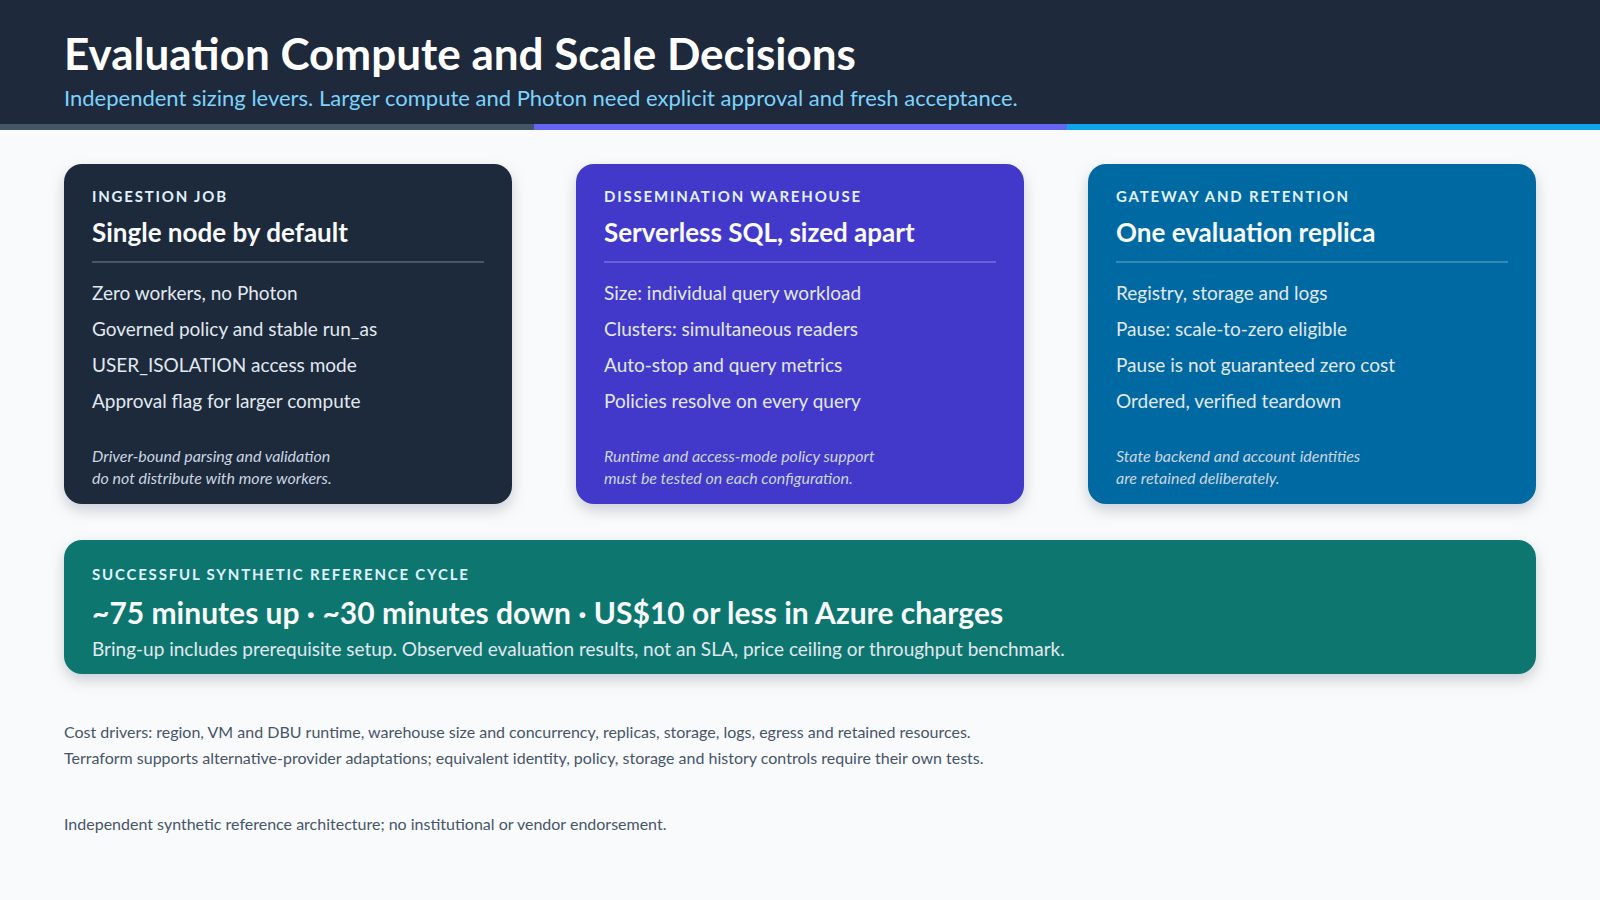
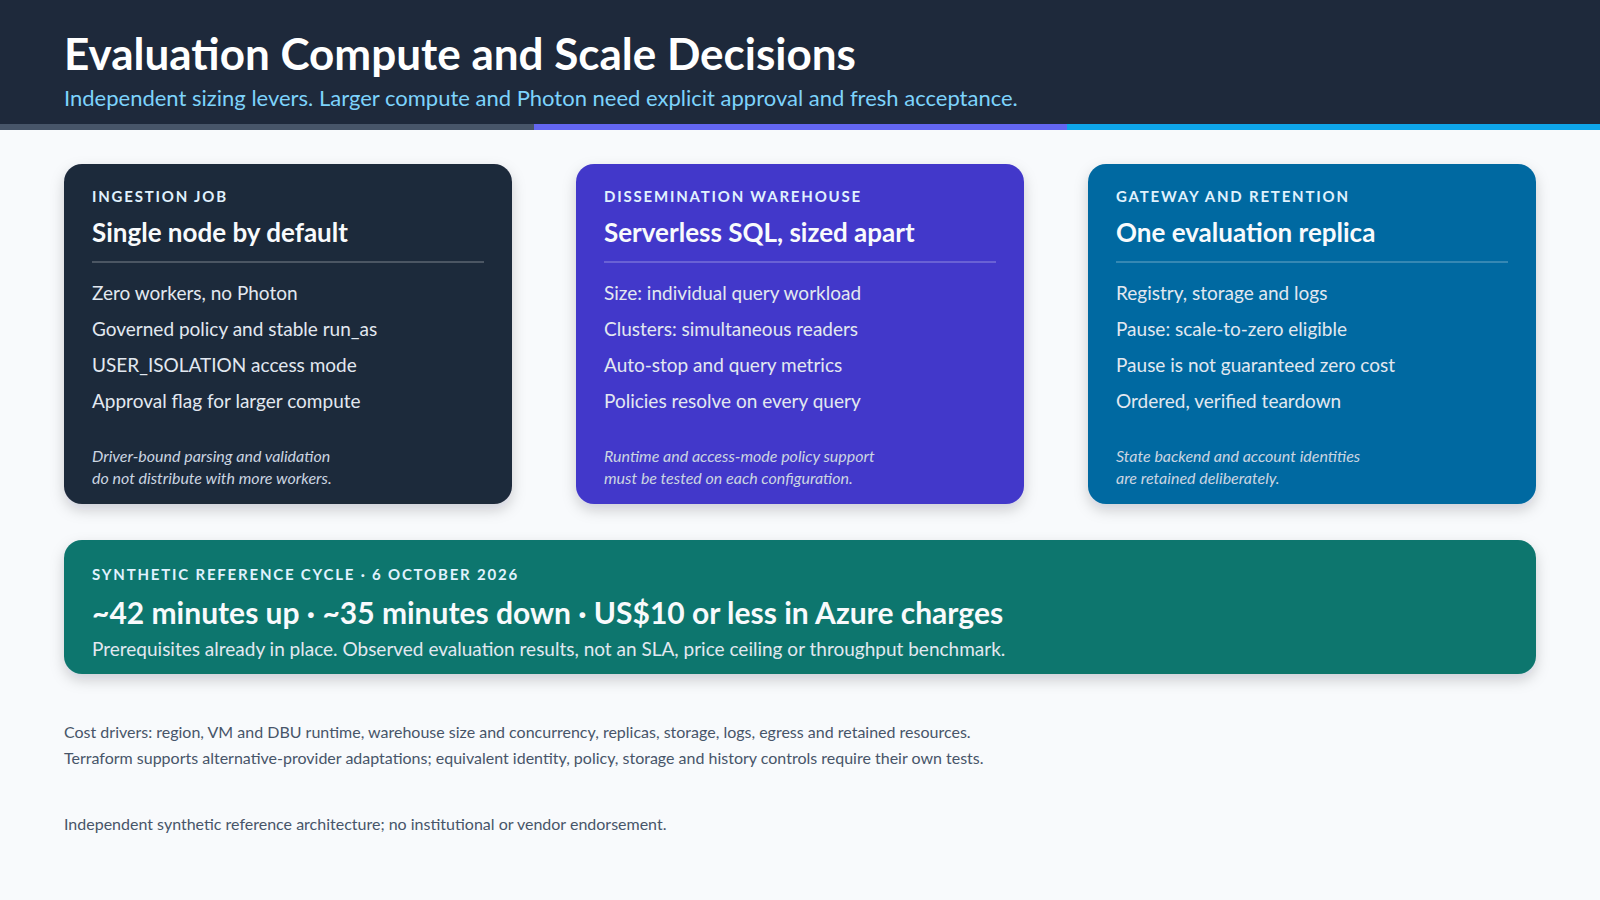
Publish the 6 October cycle as the current reference timing
The most recent greenfield cycle, run from Ubuntu Linux with PowerShell 7 and the prerequisites already in place, took about 42 minutes up and 35 minutes down for US$10 or less. Publications, guides, the reference index, demo narration, the LinkedIn draft and the compute figure now state it. The evidence register keeps the 18 September Windows cycle (75 minutes including prerequisites, 30 down) as history, and the dated records name that date. Only compute_strategy.png was re-rendered.

Intent: 2026-10-06-reference-timings
Assisted-by: GitHub Copilot (Claude Opus 5.5)

Changed region(s): [[0.0625, 0.6222, 0.6562, 0.7467]]

diff --git a/tests/test_documentation_contract.py b/tests/test_documentation_contract.py
@@ -125,7 +125,7 @@ def test_primary_publications_preserve_enterprise_scope(relative_path):
     assert all(platform in prose for platform in ("AWS", "GCP", "Microsoft Fabric", "open-source"))
     assert "reconstruct" in prose.lower()
     assert re.search(r"restrict|remov", prose, re.IGNORECASE)
-    assert all(measure in prose for measure in ("75 minutes", "30 minutes", "US$10"))
+    assert all(measure in prose for measure in ("42 minutes", "35 minutes", "US$10"))
     assert "prerequisite" in prose
 
 

diff --git a/docs/whitepaper/Bridging_Public_Dissemination_and_Protected_Data.md b/docs/whitepaper/Bridging_Public_Dissemination_and_Protected_Data.md
@@ -7,7 +7,7 @@
 **Affiliation:** Independent Reference Architecture  
 **Classification:** Public Reference Architecture  
 **Standards:** SDMx 3.0 | BIS Locational Banking Statistics (LBS) | Azure Databricks Unity Catalog  
-**Implementation status:** Synthetic provisioning, live control tests and workload teardown completed on Azure. The reference evaluation measured approximately 75 minutes to provision including prerequisites, 30 minutes to tear down, and US$10 or less in Azure charges for the deploy/test/teardown cycle. These are evaluation results, not production service levels; see [measurement scope](../RELEASE_EVIDENCE.md#reference-evaluation-metrics).
+**Implementation status:** Synthetic provisioning, live control tests and workload teardown completed on Azure. The most recent reference evaluation (6 October 2026) measured approximately 42 minutes to provision with prerequisites already in place, 35 minutes to tear down, and US$10 or less in Azure charges for the deploy/test/teardown cycle. These are evaluation results, not production service levels; see [measurement scope](../RELEASE_EVIDENCE.md#reference-evaluation-metrics).
 
 > **Independent Reference Architecture Notice:**  
 > This publication and associated reference implementations were developed in a personal capacity using synthetic data fixtures and publicly available international statistical standards (SDMx 3.0, BIS Locational Banking Statistics). They are shared for educational purposes and reflect only the author's views. This work is not affiliated with, sponsored by, or representative of the Bank of Canada, the Federal Reserve System, the Bank for International Settlements, or any official statistical institution.
@@ -304,7 +304,7 @@ An institution does not need to share internal records to start development:
 
 After the one-time remote-state backend and local configuration are prepared, `sh/sovereignshield_up.ps1` executes the validated sequence from Terraform foundation through Databricks account wiring, Asset Bundle deployment, ingestion, grants, both portal hosts, and readiness checks. Stages can be bounded or resumed after a cloud timeout. `sh/sovereignshield_down.ps1` deletes tables and policy functions before the schemas that contain them, destroys bundle and Azure resources through their owning paths, removes orphaned diagnostics, and verifies both empty Terraform state and an empty workload resource group. The backend and account-level identity records are deliberately retained for reliable reconstruction.
 
-The successful reference evaluation took approximately **75 minutes to bring up the project, including prerequisite setup**, and **30 minutes for teardown**. The complete deploy, test and teardown cycle incurred **US$10 or less in Azure charges**. This supports a low-cost, bounded synthetic evaluation; it is not a guaranteed ceiling for other regions, subscriptions, durations or workloads. Retained backend resources remain separately governed. The [evaluation evidence](../RELEASE_EVIDENCE.md#reference-evaluation-metrics) defines measurement provenance and accounting limits.
+The most recent successful reference evaluation (6 October 2026) took approximately **42 minutes to bring up the project, with prerequisite setup already in place**, and **35 minutes for teardown**. The complete deploy, test and teardown cycle incurred **US$10 or less in Azure charges**. This supports a low-cost, bounded synthetic evaluation; it is not a guaranteed ceiling for other regions, subscriptions, durations or workloads. Retained backend resources remain separately governed. The [evaluation evidence](../RELEASE_EVIDENCE.md#reference-evaluation-metrics) defines measurement provenance and accounting limits.
 
 The reason each Azure and Databricks object exists, who creates it, and whether it is reused or deleted is documented in the [Systems Architect Resource Provenance Guide](../RESOURCE_PROVENANCE.md). The command sequence and recovery controls are in the [One-Command Operations Runbook](../AUTOMATION_RUNBOOK.md).
 

diff --git a/docs/RELEASE_EVIDENCE.md b/docs/RELEASE_EVIDENCE.md
@@ -11,14 +11,20 @@ those evaluations, not the current availability of a continuously operated servi
 
 | Measure | Observed Reference Result | Boundary |
 | --- | --- | --- |
-| Full project bring-up using `sh/sovereignshield_up.ps1` | Approximately 75 minutes, including prerequisite setup | Synthetic evaluation, not a production provisioning SLA |
-| Workload teardown using `sh/sovereignshield_down.ps1` | Approximately 30 minutes | Separate from the 75-minute bring-up; retained backend/identity artifacts follow the runbook |
-| Azure charges for deployment, testing and teardown | US$10 or less | Measured reference cycle, not a price guarantee or recurring production estimate |
-| Lifecycle completion | Both scripts completed without errors in the confirmed evaluation | Institutional production acceptance remains a separate gate |
+| Full project bring-up using `sh/sovereignshield_up.ps1` | Approximately 42 minutes for all eight stages, including the offline test suite, with prerequisites already in place (6 October 2026). Earlier: approximately 75 minutes including prerequisite setup (18 September 2026) | Synthetic evaluation, not a production provisioning SLA |
+| Workload teardown using `sh/sovereignshield_down.ps1` | Approximately 35 minutes (6 October 2026). Earlier: approximately 30 minutes (18 September 2026) | Separate from bring-up; retained backend/identity artifacts follow the runbook |
+| Azure charges for deployment, testing and teardown | US$10 or less in each cycle | Measured reference cycle, not a price guarantee or recurring production estimate |
+| Lifecycle completion | Both scripts completed without errors in both cycles | Institutional production acceptance remains a separate gate |
 
-**Measurement provenance:** project-operator evaluation confirmed on 18 September
-2026. The supplied timing includes prerequisites. A line-item billing export,
-credit/tax treatment and allocation of persistent shared resources were not supplied.
+**Measurement provenance:** the current reference cycle was run by the project
+operator on 6 October 2026 from Ubuntu Linux with PowerShell 7.6. The state
+backend, Entra persona users and Databricks account identities already existed,
+so its bring-up time excludes prerequisite setup. Since the earlier cycle, teardown
+also waits until Azure confirms that the Container Apps environment and the
+workspace are deleted, rather than trusting the CLI's own polling. The earlier cycle,
+confirmed on 18 September 2026 from Windows, included prerequisite setup. Both
+timings and costs are operator-reported. A line-item billing export, credit/tax
+treatment and allocation of persistent shared resources were not supplied.
 The recorded US-dollar cycle cost supports low-cost synthetic evaluation; it does
 not establish an independently audited billing total or a ceiling for other runs.
 Region, capacity, runtime, warehouse activity, storage, logs, egress, retained

diff --git a/README.md b/README.md
@@ -159,9 +159,10 @@ submitted filing can be rejected while an earlier accepted version stays publish
 | Empty subscription (PowerShell on Windows, or `pwsh` on Linux) | `sh/sovereignshield_up.ps1` / `sh/sovereignshield_down.ps1` | [Operations runbook](docs/AUTOMATION_RUNBOOK.md) |
 | Existing Azure and Databricks estate (bash) | `scripts/sovereign_up_custom.sh` / `scripts/sovereign_down_custom.sh` | [Bring your own estate](docs/AUTOMATION_RUNBOOK.md#bring-your-own-azure-estate) |
 
-The greenfield reference cycle took about **75 minutes** to bring up, including prerequisite
-setup, **30 minutes** to tear down and **US$10** or less in Azure charges. These are observed
-synthetic results, not an SLA or price ceiling ([measurement scope](docs/RELEASE_EVIDENCE.md#reference-evaluation-metrics)).
+The most recent greenfield reference cycle (6 October 2026) took about **42 minutes** to
+bring up, with prerequisites already in place, **35 minutes** to tear down and **US$10** or
+less in Azure charges. These are observed synthetic results, not an SLA or price ceiling
+([measurement scope](docs/RELEASE_EVIDENCE.md#reference-evaluation-metrics)).
 The custom scripts attach to existing resources, create only the missing delta, tag what
 they create and record it in `.sovereign_provisioned_manifest.json`, so teardown removes
 nothing it did not create.

diff --git a/docs/LINKEDIN_POST.md b/docs/LINKEDIN_POST.md
@@ -81,7 +81,7 @@ Beyond statistics
 The same question now faces AI assistants grounded in enterprise knowledge: retrieval should return only the evidence the person asking is entitled to see. Binding that rule to the data, letting signed-in channels query with the caller's own identity and giving anonymous traffic a least-privileged public identity, never one shared privileged account, keeps the decision in one governed place. Sovereign Shield does not include an assistant, but its gateway faces the same identity question.
 
 Evidence
-A complete Azure deployment came up in about 75 minutes and tore down in 30, for under US$10 in Azure charges. Those are synthetic evaluation numbers, not production estimates. The code, white paper and an open reconstruction challenge are here: https://github.com/botlhale/sovereign-shield
+A complete Azure deployment came up in about 42 minutes and tore down in 35, for under US$10 in Azure charges. Those are synthetic evaluation numbers, not production estimates. The code, white paper and an open reconstruction challenge are here: https://github.com/botlhale/sovereign-shield
 
 Independent, educational work on synthetic data and public standards, written in a personal capacity. It is not the work of the Bank of Canada or any other institution, and the views are my own.
 

diff --git a/docs/EXECUTIVE_BRIEF.md b/docs/EXECUTIVE_BRIEF.md
@@ -96,7 +96,7 @@ Start with one bounded workload and widen the scope only as evidence accumulates
 
 **Assurance:** Rehearse protected migration, test the live persona matrix, recovery and offboarding, validate disclosure control, and obtain legal/provenance clearance.
 
-**Reference evaluation:** successful provisioning took approximately **75 minutes including prerequisites**; teardown took **30 minutes**. The deploy/test/teardown cycle cost **US$10 or less in Azure charges**. This is an observed synthetic-workload result, not a production estimate or guaranteed price. [Measurement scope](RELEASE_EVIDENCE.md#reference-evaluation-metrics).
+**Reference evaluation:** provisioning took approximately **42 minutes with prerequisites in place**; teardown took **35 minutes**. The deploy/test/teardown cycle cost **US$10 or less in Azure charges**. This is an observed synthetic-workload result, not a production estimate or guaranteed price. [Measurement scope](RELEASE_EVIDENCE.md#reference-evaluation-metrics).
 
 **Technology options:** Terraform module/provider boundaries support AWS, GCP, Microsoft Fabric and open-source alternatives. Identity, policy enforcement, storage and lifecycle adapters must be implemented and acceptance-tested; the Azure/Databricks code is not portable unchanged.
 

diff --git a/docs/LIVE_DEPLOYMENT_2026_09_15.md b/docs/LIVE_DEPLOYMENT_2026_09_15.md
@@ -135,10 +135,11 @@ not be verified and is not reported as below $50; billing also lags resource use
 The workload is now removed, but the retained state backend can incur storage
 costs. No hard real-time billing cap or zero-total-cost claim is made.
 
-The later confirmed reference evaluation measured about 75 minutes up including
-prerequisites, 30 minutes down and US$10 or less in Azure charges for the full
-cycle. Its [measurement scope](RELEASE_EVIDENCE.md#reference-evaluation-metrics)
-is separate from this earlier billing-API limitation. Historical figures are not
+The later reference evaluation confirmed on 18 September 2026 measured about
+75 minutes up including prerequisites, 30 minutes down and US$10 or less in Azure
+charges for the full cycle. Its scope, and that of later cycles, is recorded under
+[reference evaluation metrics](RELEASE_EVIDENCE.md#reference-evaluation-metrics),
+separate from this earlier billing-API limitation. Historical figures are not
 retroactively changed. Public-total and researcher-row inference remain the
 [open disclosure challenge](../SECURITY.md#statistical-reconstruction-challenge).
 

diff --git a/docs/LIVE_DEPLOYMENT_2026_09_18.md b/docs/LIVE_DEPLOYMENT_2026_09_18.md
@@ -70,10 +70,12 @@ was needed for this recovery.
   not claimed as tested here.
 
 No teardown or push was part of the recovery task itself. Subsequent successful
-script-driven provisioning and teardown were confirmed in the reference evaluation:
-approximately 75 minutes up including prerequisites, 30 minutes down, and US$10 or
-less in Azure charges for deploy/test/teardown. See [measurement scope](RELEASE_EVIDENCE.md#reference-evaluation-metrics);
-those values are not the 10.8-minute partial recovery above or a production guarantee.
+script-driven provisioning and teardown were confirmed in the reference evaluation
+of 18 September 2026: approximately 75 minutes up including prerequisites, 30 minutes
+down, and US$10 or less in Azure charges for deploy/test/teardown. See
+[measurement scope](RELEASE_EVIDENCE.md#reference-evaluation-metrics) for that and
+later cycles; those values are not the 10.8-minute partial recovery above or a
+production guarantee.
 
 SDMx files are the modeled international input. Synthetic bank micro-transactions
 remain educational calculation artifacts, not a system deliverable. The Analyst

diff --git a/docs/RESOURCE_PROVENANCE.md b/docs/RESOURCE_PROVENANCE.md
@@ -163,11 +163,12 @@ driven by replica uptime, CPU/memory allocation, requests, registry/storage, and
 logs. Pause mode sets minimum replicas to zero; workload teardown deletes the
 app, environment, matching registry, and token store.
 
-Successful reference provisioning took approximately **75 minutes including
-prerequisites**, followed by **30 minutes for teardown**. The complete deploy,
-test and teardown cycle cost **US$10 or less in Azure charges**. This is a measured
-synthetic evaluation, not a recurring production estimate or zero-cost retention
-claim. See [measurement scope](RELEASE_EVIDENCE.md#reference-evaluation-metrics).
+The most recent successful reference provisioning (6 October 2026) took
+approximately **42 minutes with prerequisites already in place**, followed by
+**35 minutes for teardown**. The complete deploy, test and teardown cycle cost
+**US$10 or less in Azure charges**. This is a measured synthetic evaluation, not a
+recurring production estimate or zero-cost retention claim. See
+[measurement scope](RELEASE_EVIDENCE.md#reference-evaluation-metrics).
 
 ## Remote State Resource Group
 

diff --git a/intent/2026-10-06-reference-timings/plan.md b/intent/2026-10-06-reference-timings/plan.md
@@ -60,4 +60,20 @@ No operational state changes.
 
 ## Evidence
 
-Recorded when the status becomes verified.
+Verified on 6 October 2026, before the implementing commit.
+
+- The contract test was changed first and failed for all three publications.
+  After the edits, `tests/test_documentation_contract.py` passed 16 of 16.
+- `sh/verify_docs.py` verified 388 local links and anchors. `--print-proof`
+  produced an eight-page Executive Brief and a 20-page white paper, with each
+  figure on a page that has an image.
+- `git grep` for the old wording finds only the dated records, the
+  evidence-register history and these intent records.
+- `git diff --stat docs/figures` lists only `compute_strategy.svg`,
+  `compute_strategy.png` and `manifest.json`.
+  - Text extents were measured in the same headless Chrome: the widest panel line
+    ends at x=1005 of 1536.
+  - The render used Lato, the third font in the SVG stack, because Inter and
+    Segoe UI are not installed on this Linux machine. The other five figures keep
+    their earlier Segoe UI renders.
+- Full offline suite: 275 passed, 13 skipped.

diff --git a/.github/skills/SKILLS.md b/.github/skills/SKILLS.md
@@ -64,9 +64,10 @@ Databricks are the demonstrated implementation. Terraform provider/module
 boundaries support AWS, GCP, Microsoft Fabric and open-source adaptations.
 Identity, storage, policy, history and hosting adapters require equivalent tests.
 
-The successful synthetic reference cycle measured approximately **75 minutes up
-including prerequisites**, **30 minutes down**, and **US$10 or less in Azure charges
-for deploy/test/teardown**. Use [the measurement scope](../../docs/RELEASE_EVIDENCE.md#reference-evaluation-metrics),
+The most recent successful synthetic reference cycle (6 October 2026) measured
+approximately **42 minutes up with prerequisites already in place**, **35 minutes
+down**, and **US$10 or less in Azure charges for deploy/test/teardown**. Use
+[the measurement scope](../../docs/RELEASE_EVIDENCE.md#reference-evaluation-metrics),
 not these values as production cost or duration guarantees.
 
 The [engagement playbook](../../docs/ENTERPRISE_ONBOARDING_PLAYBOOK.md) is authoritative

diff --git a/docs/AUTOMATION_RUNBOOK.md b/docs/AUTOMATION_RUNBOOK.md
@@ -85,9 +85,10 @@ The default run executes:
 | 7 | Build and deploy Container Apps with anonymous and Entra access |
 | 8 | Check App status, persona SQL entitlements, 13-row public fixture and Easy Auth; optionally configure GitHub |
 
-The successful reference evaluation measured approximately **75 minutes to bring
-up the entire project, including prerequisite setup**, and **30 minutes for
-teardown**. Deployment, testing and teardown incurred **US$10 or less in Azure
+The most recent successful reference cycle (6 October 2026, Ubuntu Linux with
+PowerShell 7) measured approximately **42 minutes to bring up the entire project,
+with prerequisite setup already in place**, and **35 minutes for teardown**.
+Deployment, testing and teardown incurred **US$10 or less in Azure
 charges**. These are observed synthetic-workload results, not stage SLAs or a
 guaranteed cost ceiling. Regional capacity, RBAC propagation, runtime, storage,
 warehouse activity and retained resources affect each run. See
